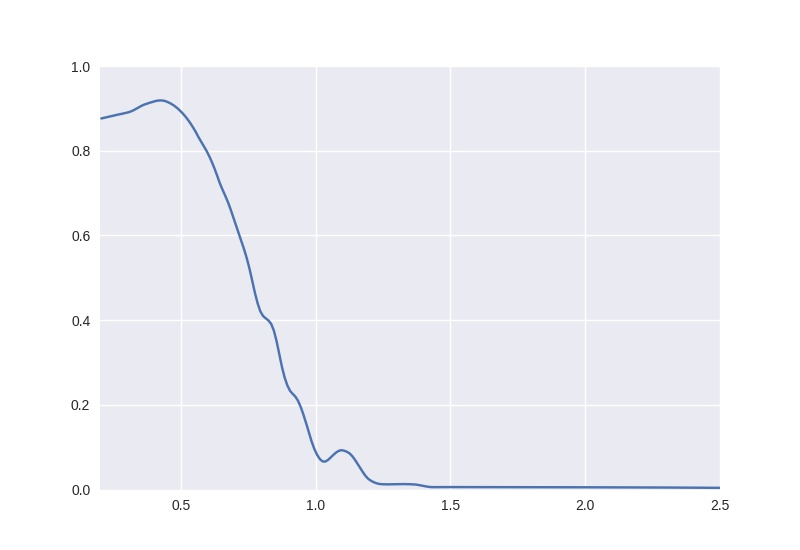
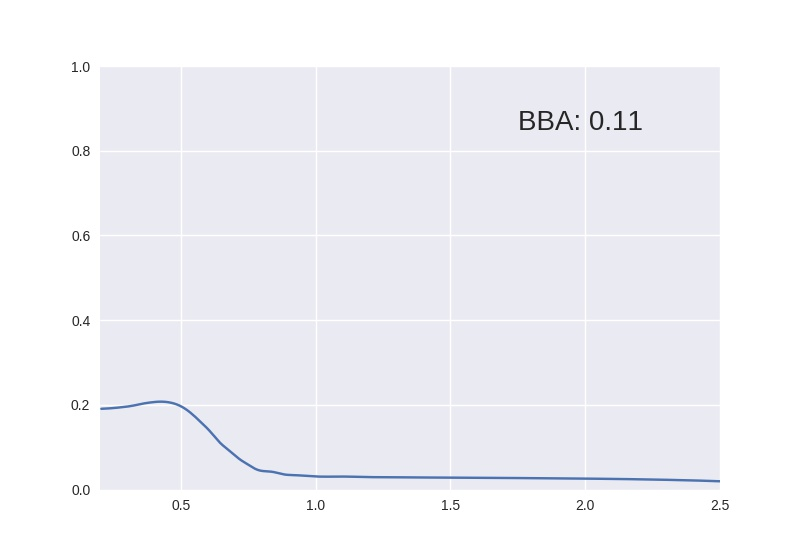
refine home page template

diff --git a/app/templates/home.html b/app/templates/home.html
@@ -23,33 +23,42 @@
 </style>
    <header class="header"></header>
       <br>
-      <H1><br><font face = "Helvetica" size = "6" style="margin-left:50px" >BioSNICAR </font></H1>
-      <P><font face = "Helvetica" size = "5" style="margin-left:50px" >Radiative transfer modelling of ice and snow </font></P>
+      <H1><br><font face = "Helvetica" size = "6" style="margin-left:800px" >BioSNICAR </font></H1>
+      <P><font face = "Helvetica" size = "5" style="margin-left:650px" >Radiative transfer modelling of ice and snow </font></P>
       <br>
-      <P></br><font face = "Helvetica" size = "3" style="margin-left:50px" > Please enter your input values and press SUBMIT.</font><br></P>
+      <P></br><font face = "Helvetica" size = "3" style="margin-left:700px" > Please enter your input values and press SUBMIT.</font><br></P>
       <br>
       <form action = "http://localhost:5000/" method = "post">
 
-      <br><p> <font face = "Helvetica" size = "3" style = "margin-left:50px" >Ice Type (0 or 1):</font></p>
-         <p><input type = "number" name = "lyr_typ" style="background-color:#d1d1d1;font-size: 12pt; margin-left:50px"/></p><br>
-         
-      <br><p><font face = "Helvetica" size = "3" style = "margin-left:50px" >Layer thickness (meters)</font></p>
-         <p><input type = "number" name = "dz" style="background-color:#d1d1d1;font-size: 12pt; margin-left:50px" /></p><br>
-      
-      <br><p><font face = "Helvetica" size = "3" style = "margin-left:50px" >effective grain/bubble radius (microns)</font></p>
-         <p><input type = "number" name = "r_eff" style="background-color:#d1d1d1;font-size: 12pt; margin-left:50px" /></p><br>
-      
-      <br><p><font face = "Helvetica" size = "3" style = "margin-left:50px" >Ice density (kg/m3)</font></p>
-         <p><input type = "number" name = "rho" style="background-color:#d1d1d1;font-size: 12pt; margin-left:50px" /></p><br>
-      
-      <br><p><input type = "submit" value = "submit" style = "background-color:#d1d1d1;font-size: 26px;font-weight:bold; height:50px; width:200px; margin-left:50px" /></p>
-      </form>
-      <br>
-   <br>
-   <br>
-   <P><font face = "Helvetica" size = "3" style = "margin-left:50px">To access app documentation, click the "More Info" button</font></P>
+         <table style="margin-left:50px; margin-top:60;">
+            <tr>
+               <td align="right">Ice Type (0 or 1) &nbsp &nbsp &nbsp &nbsp</td>
+               <td align="left"><input type = "number" min="0" max="1" name = "lyr_typ" style="background-color:#f1eeee;font-size: 12pt" /></td>
+            </tr>
+            <tr>
+               <td align="right">Layer thickness (meters)  &nbsp &nbsp &nbsp &nbsp</td>
+               <td align="left"><input type= "number" name = "dz" style="background-color:#f1eeee;font-size: 12pt" /></td>
+            </tr>
+            <tr>
+               <td align="right">Effective grain/bubble radius (microns)  &nbsp &nbsp &nbsp &nbsp</td>
+               <td align="left"><input type="number" min = "100" max="20000" name = "r_eff" style="background-color:#f1eeee;font-size: 12pt" /></td>
+            </tr>
+            <tr>
+               <td align="right">Ice density (kg/m3)  &nbsp &nbsp &nbsp &nbsp</td>
+               <td align="left"><input type = "number" min="100" max="900" name = "rho" style="background-color:#f1eeee;font-size: 12pt" /></td>
+            </tr>
+            
+         </table>
+          
 
-   <P><button onclick="location.href = '/info_page';" id="Info Page" style= background-color:#d1d1d1;font-size:20px;margin-left:50px;height:40px;width:200px;" ><b> More Info</b> </font></button></P>
+      <input type = "submit" value = "submit" style = "background-color:#f1eeee;font-size: 26px; font-weight:bold; height:50px; width:200px; margin-left:780px" /></p>
+
+   <br>
+   <br>
+   <P><font face = "Helvetica" size = "3" style = "position:absolute;bottom:100px;margin-left:50px">Click to access app documentation</font></P>
+   </form>
+
+   <P><button onclick="location.href = 'https://biosnicar-go-py.readthedocs.io/';" id="docs" style= background-color:#f1eeee;position:absolute;margin-left:50px;bottom:50px;font-size:20px;height:40px;width:200px;" ><b> More Info</b> </font></button></P>
    <br>
    <br>
       <style>

diff --git a/app/app.py b/app/app.py
@@ -96,12 +96,9 @@ def output():
 #     return render_template("responsepage_fail.html", title="Ice Classifiers")
 
 
-# @app.route("/info_page")
-# def info_page():
-#     return render_template("info_page.html", title="Ice Classifiers")
 
 ####################   ROUTE 3: /model   #############################
-#### this route contains the model calls. Input data is gathered from  ####
+#### this route contains the model call. Input data is gathered from  ####
 #### the html form in homepage.html & parsed to the successive python  ####
 #### scripts comprising the IceClassifiers model. Output image saves   ####
 #### to ./templates to make the file available as a static resource to ####
@@ -109,6 +106,17 @@ def output():
 
 @app.route('/model', methods=['POST'])
 def post_function():
+    """
+    Runs BioSNICAR model and renders output to webpage.
+
+    This function takes the use inputs from the POST request submitted
+    by the user via the webform on route "/". These inputs are passed
+    to the BioSNCAR model and a plot of spectral albedo is saved to file.
+    The broadband albedo, rounded to 2 decimal places, is printed on the
+    figure. A successful model run triggers an auto redirect to 
+    the /output page where the figure is rendered.
+
+    """
 
     global success
     json = request.get_json()
@@ -149,11 +157,14 @@ def post_function():
 
     # now run one or both of the radiative transfer solvers
     outputs = adding_doubling_solver(tau, ssa, g, L_snw, ice, illumination, model_config)
+    rounded_BBA = np.round(outputs.BBA, 2)
     wvl = np.arange(0.205, 5, 0.01)
     plt.plot(wvl, outputs.albedo)
     plt.ylim(0,1)
     plt.xlim(0.2,2.5)
+    plt.text(1.75, 0.85, f"BBA: {rounded_BBA}", fontsize = 20)
     plt.savefig("app/outputs/albedo.jpg")
+    plt.close()
 
     success=True
 
